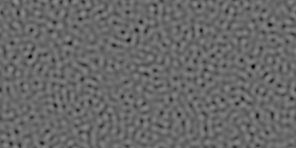
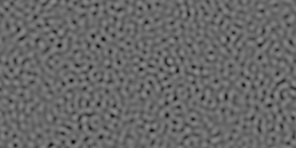
exp&data: maatching20260604

diff --git a/src/experiment/stimuli/generate_gabor_and_noise_stimuli.py b/src/experiment/stimuli/generate_gabor_and_noise_stimuli.py
@@ -15,7 +15,7 @@ import datetime
 # ==========================================
 # 実験環境の物理パラメータ
 FG_DISTANCES_CM = [50] # 前景用の距離リスト (cm)
-BG_DISTANCES_CM = [150] # 背景用の距離リスト (cm)
+BG_DISTANCES_CM = [100] # 背景用の距離リスト (cm)
 SCREEN_WIDTH_CM = 59.67    # 画面の横幅実寸 (cm) ※ベゼルを含まない表示領域
 SCREEN_RES_X_PX = 2560    # 画面の横解像度 (px)
 STIM_WIDTH_DEG = 7.9     # 刺激の幅 (度)
